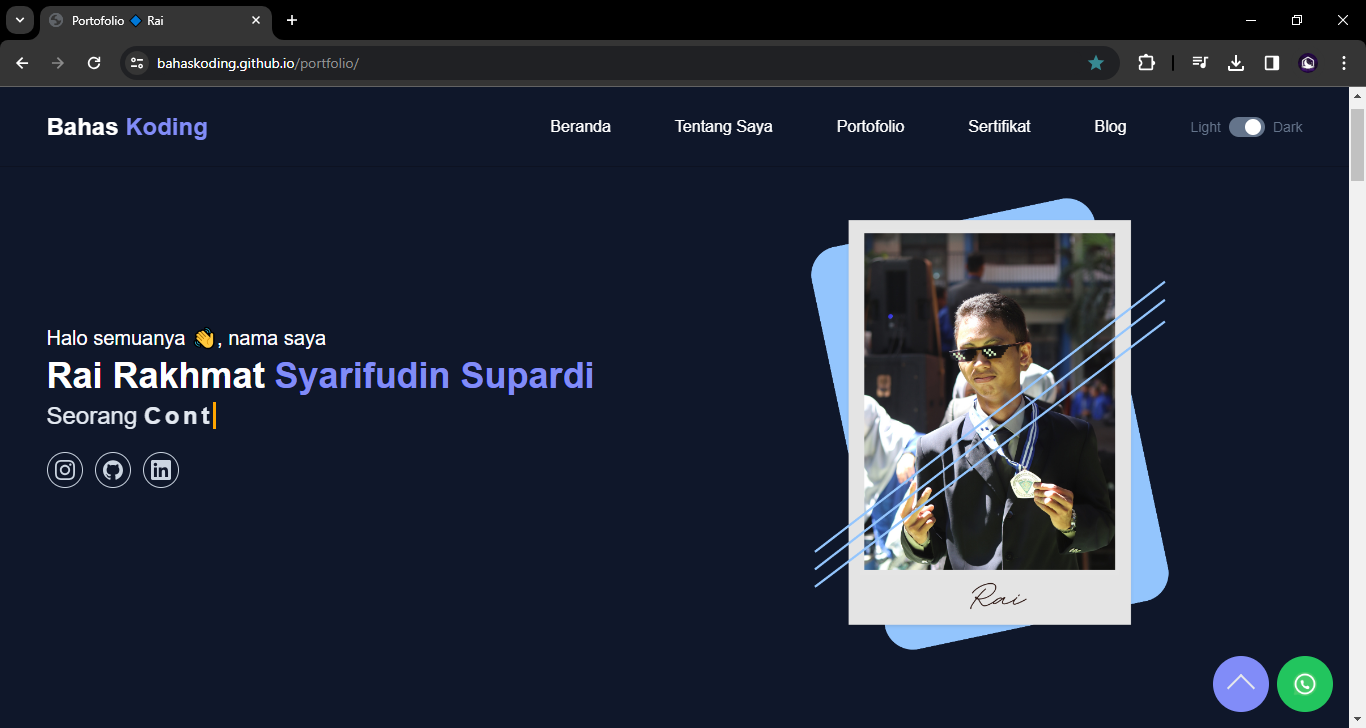
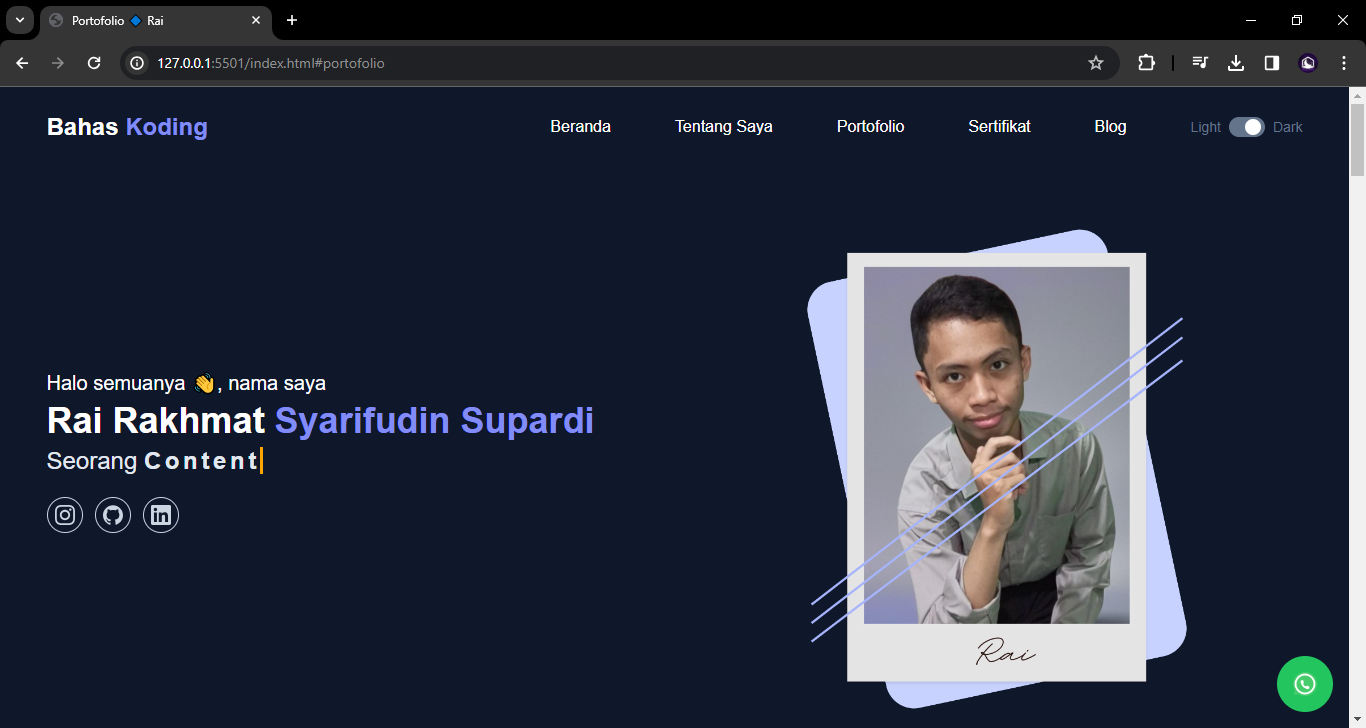
ubah gambar aja

diff --git a/index.html b/index.html
@@ -50,12 +50,12 @@
 
     <!-- Jumbotron Start -->
     <section class="jumbotron text-center" id="home">
-      <img src="img/raiblob2.png" alt="Rai Rakhmat" width="350" class="mb-3" />
+      <img src="img/rai.png" alt="Rai Rakhmat" width="350" class="mb-3" />
       <h1 class="display-4 mb-3">
         <strong class="fw-normal">Rai Rakhmat</strong>
         <span class="text-muted fw-normal"> Syarifudin Supardi</span>
       </h1>
-      <strong class="lead fs-2 fw-normal">Seorang Mahasiswa & Konten Kreator</strong>
+      <strong class="lead fs-2 fw-normal">Mahasiswa & Konten Kreator</strong>
 
       <svg id="wave" style="transform: rotate(0deg); transition: 0.3s" viewBox="0 0 1440 360" version="1.1" xmlns="http://www.w3.org/2000/svg">
         <defs>
@@ -232,18 +232,22 @@
         </div>
         <div class="row justify-content-center">
           <div class="col-md-6">
-            <form>
+            <!-- <div class="alert alert-success alert-dismissible fade show" role="alert">
+              <strong>Pesan sudah terkirim!</strong> Terimakasih ~
+              <button type="button" class="btn-close" data-bs-dismiss="alert" aria-label="Close"></button>
+            </div> -->
+            <form name="submit-to-google-sheet">
               <div class="mb-3">
                 <label for="nama" class="form-label">Nama Lengkap</label>
-                <input type="name" class="form-control" id="nama" />
+                <input type="name" name="nama_lengkap" class="form-control" id="nama" />
               </div>
               <div class="mb-3">
                 <label for="email" class="form-label">Email</label>
-                <input type="email" class="form-control" id="email" />
+                <input type="email" name="email" class="form-control" id="email" />
               </div>
               <div class="mb-3">
                 <label for="message" class="form-label">Pesan</label>
-                <textarea class="form-control" id="message" rows="3"></textarea>
+                <textarea class="form-control" name="pesan" id="message" rows="3"></textarea>
               </div>
               <button type="submit" class="btn btn-primary">Kirim</button>
             </form>
@@ -263,7 +267,7 @@
     <!-- Footer Start -->
     <footer class="bg-primary text-center text-dark fw-bold pb-5">
       <!-- <p>Created with ❤ by <a href="https://instagram.com/bahaskoding/" target="_blank" class="text-white">Rai</a></p> -->
-      <p>&copy;2024 <a target="_blank" class="text-dark" href="https://instagram.com/bahaskoding/">BahasKoding</a>. All rights reserved</p>
+      <p class="text-white">&copy;2024 <a target="_blank" class="text-white" href="https://instagram.com/bahaskoding/">BahasKoding</a>. All rights reserved</p>
       <!-- <svg role="img" width="30" viewBox="0 0 24 24" xmlns="http://www.w3.org/2000/svg">
         <title>GitHub</title>
         <path
@@ -285,5 +289,20 @@
       });
     </script>
     <!-- End Script AOS Animate -->
+
+    <!-- Script Form Contact -->
+
+    <script>
+      const scriptURL = "https://script.google.com/macros/s/AKfycbx6dj-7w6m6QKsJjNVCUmh1eNJHjEejiHKaQ0yXkurHSOc1LzsC8yAFO0G9ybBKpYpH/exec";
+      const form = document.forms["submit-to-google-sheet"];
+
+      form.addEventListener("submit", (e) => {
+        e.preventDefault();
+        fetch(scriptURL, { method: "POST", body: new FormData(form) })
+          .then((response) => console.log("Success!", response))
+          .catch((error) => console.error("Error!", error.message));
+      });
+    </script>
+    <!-- End Script Form Contact -->
   </body>
 </html>
